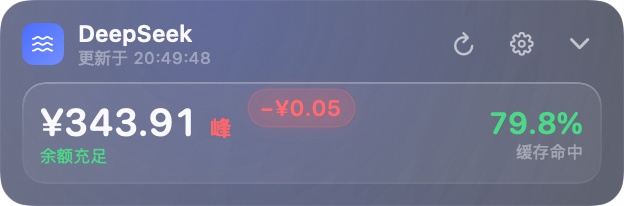
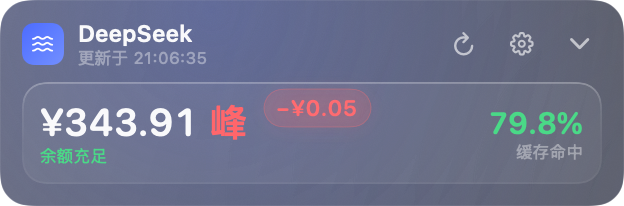
release: v1.1 — 峰谷价签放大到与金额同字号，补更新日志
- 价签字号 11pt → 19pt（与余额数字一致）。单个汉字在 11pt 时辨识度不够，
  而这个信息需要一眼扫到；位置不变，仍是余额右侧
- README 尾部新增更新日志，补齐 v1.0 / v1.1 两版记录
- Info.plist 版本 1.0.0 → 1.1

Changed region(s): [[0.3349, 0.4078, 0.609, 0.6699], [0.2131, 0.233, 0.3349, 0.3204]]

diff --git a/Sources/Views/WidgetView.swift b/Sources/Views/WidgetView.swift
@@ -274,7 +274,9 @@ struct WidgetView: View {
     private var peakTag: some View {
         let isPeak = model.isPeakNow
         return Text(isPeak ? "峰" : "谷")
-            .font(.system(size: 11, weight: .bold))
+            // 与余额数字同字号（19pt）：单个汉字在 11pt 时辨识度不够，
+            // 而这个信息需要一眼扫到，不能靠凑近看
+            .font(.ds(19, .semibold, rounded: true))
             .foregroundStyle(isPeak ? DS.peakTag : DS.offPeakTag)
             .accessibilityLabel(isPeak ? "高峰时段" : "空闲时段")
             .help(

diff --git a/README.md b/README.md
@@ -307,3 +307,39 @@ DeepSeekFloat/
 ## 许可
 
 MIT
+
+---
+
+## 更新日志
+
+### v1.1 · 2026-10-21
+
+**新增**
+- 收起态显示**峰谷单字价签**：余额右侧一个与金额同字号的汉字，红「峰」= 高峰原价，绿「谷」= 空闲五折。收起形态才是常驻可见的那一面，价格档位直接决定「现在跑批划不划算」，比余额本身更有决策价值。悬停可看切换倒计时。
+- `--peak` / `--offpeak` 预览开关。价签只在对应时段出现，错过就要等下一个窗口——比如空闲时段想看红「峰」，得等到次日 9:00。
+
+**修复**
+- `./build.sh install` 重装后自动恢复「开机自启」注册。ad-hoc 签名每次编译 cdhash 都会变，等于换了代码身份，`SMAppService` 的原有注册随之失效——之前每次更新都要手动重开一次。
+
+**调整**
+- 展开态余额卡的「时段」小项改用与价签一致的配色（红 / 绿），避免同一概念两处不同色。
+
+### v1.0 · 2026-10-07
+
+首个版本。
+
+**核心**
+- 输入 DeepSeek API Key 即可查看账户余额；可选粘贴平台 `userToken` 查看 token 用量、缓存命中率、消费与分模型明细。
+- 两条互相独立的凭据通路：官方 `/user/balance` 认 `sk-` Key；平台用量接口认网页登录态 `userToken`。任一条失败不影响另一条。
+
+**形态**
+- 无边框非激活 `NSPanel`：`floating` 层级、跨所有桌面空间、可拖动、高度随内容自适应、无 Dock 图标、菜单栏常驻余额。
+- 安装到 `/Applications`，支持开机自启与干净卸载（含 `--purge`）。
+
+**工程**
+- Swift + AppKit/SwiftUI，`swiftc` 直编，只需要 Command Line Tools，不需要完整 Xcode。
+- 平台用量接口未公开且响应形状不统一，解析器按语义递归抓取；对「`total` 与 `days` 不能相加」这类会翻倍计费的坑有专门规则，配 76 项断言覆盖。
+- 自检与调试通道：`--selftest` / `--parsetest` / `--render` / `--demo`，以及 `SIGHUP`（刷新）/ `SIGUSR1`（抓动画中间帧）/ `SIGUSR2`（测试通知）/ `SIGWINCH`（切换置顶）四条信号通道。
+
+**视觉（第一批 12 条）**
+- 余额增减气泡、数字滚动、变化色闪、双同心环、天 / 小时热力图、噪点纹理、背景极光、低余额呼吸红边等。完整清单见 [docs/视觉细节候选清单.md](docs/视觉细节候选清单.md)。
